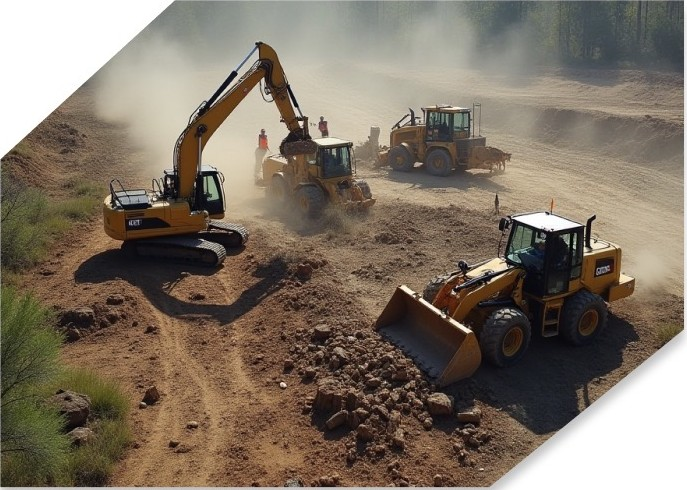
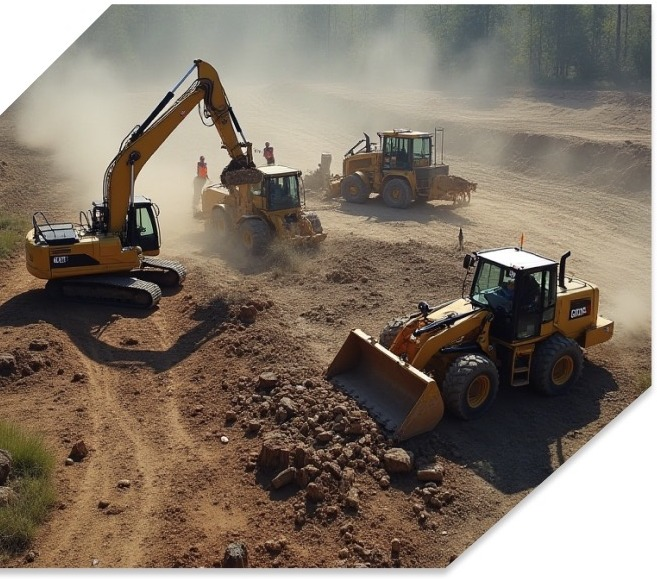
Replace machine and service photos with higher-quality crops
Re-crop all 8 machine photos and all 6 service photos from the
better-quality reference images supplied, using precise pixel bounds
(auto-detected from each card's white background) instead of the
earlier low-res screenshot crops. The service photos already have
a diagonal-cut corner baked in, so drop the redundant CSS clip-path
and match the image's own aspect ratio instead.

Claude-Session: https://claude.ai/code/session_01EKzYqcdtUEQZAvWVc1pkM7

diff --git a/css/style.css b/css/style.css
@@ -470,10 +470,9 @@ h1,h2,h3,h4{ margin: 0; font-weight: 700; }
 }
 .service-img{
   width: 100%;
-  aspect-ratio: 16/10;
+  aspect-ratio: 657/579;
   object-fit: cover;
   border-radius: 18px;
-  clip-path: polygon(0 0, 82% 0, 100% 18%, 100% 100%, 0 100%);
   margin-bottom: 18px;
 }
 .service-title{
